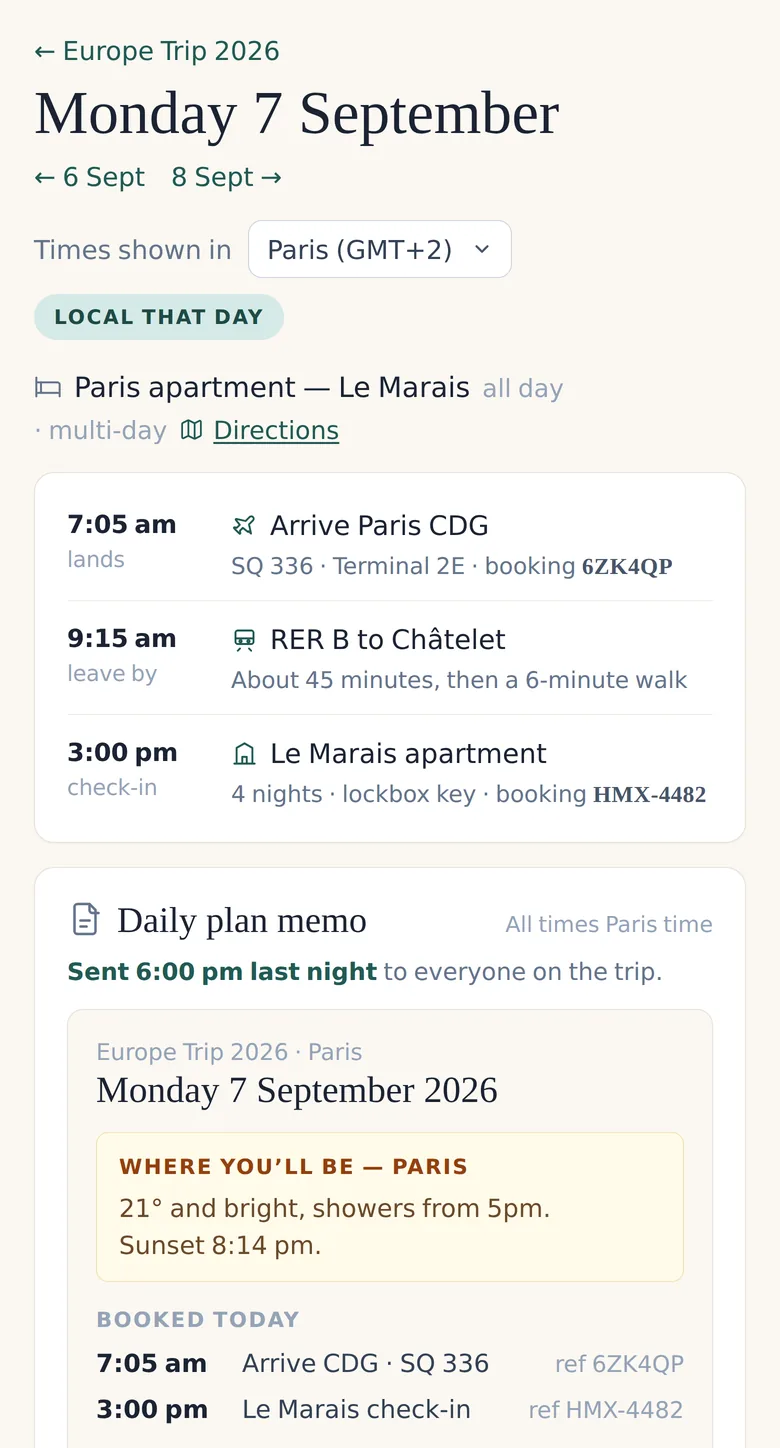
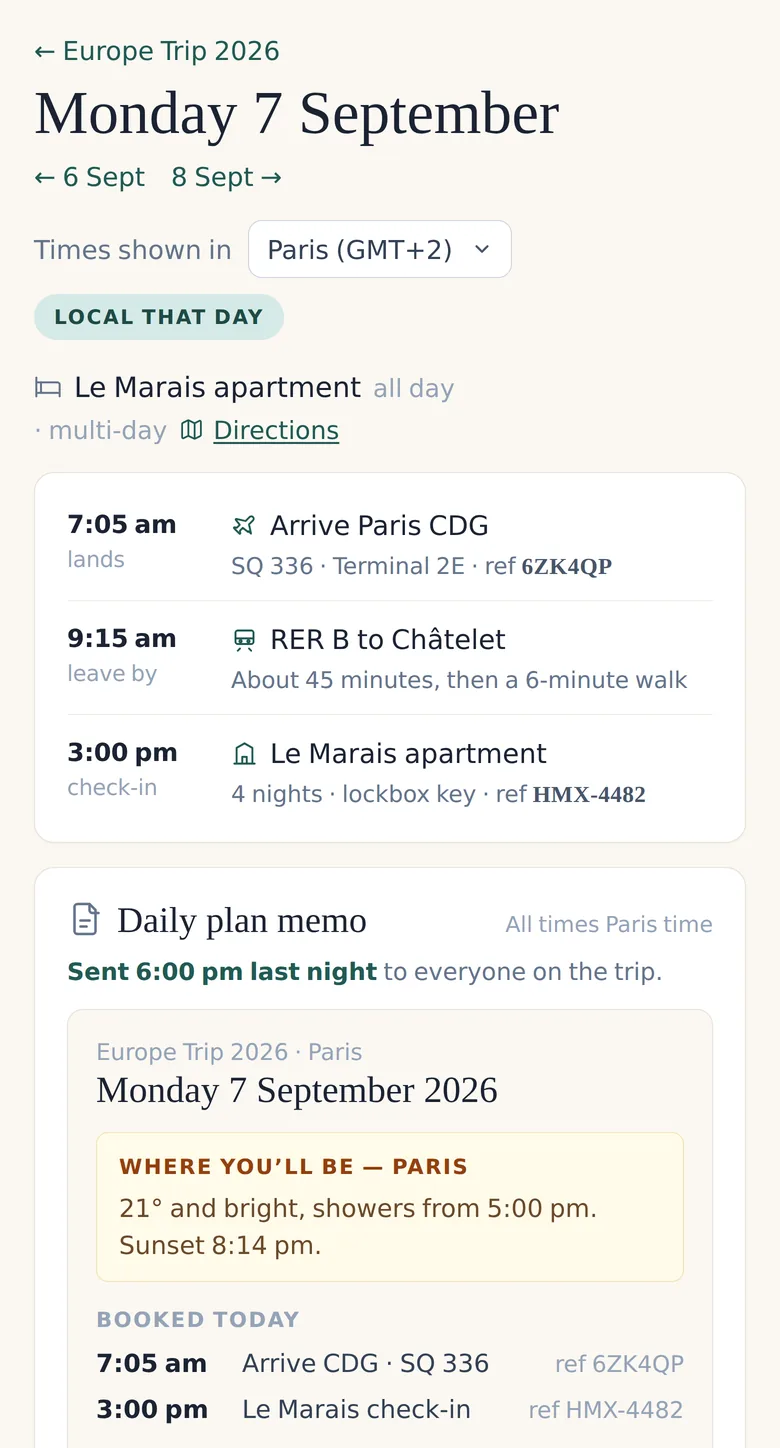
MaiCation day-page shot: one word for a reference, one name for the flat
The schedule rows said "booking 6ZK4QP" where the memo below said "ref
6ZK4QP", and the all-day banner called the flat "Paris apartment — Le
Marais" where the row beneath it said "Le Marais apartment". One word and
one name each, and "ref" is the term the page's own copy uses -- "the
reference the desk will ask for". The forecast said "5pm" among a screen
of "7:05 am" and "8:14 pm"; it now reads 5:00 pm like the rest.

Alt text on the maication page drops an em dash to match the sentence
shape of the trip.webp and budget.webp alt texts beside it.

Claude-Session: https://claude.ai/code/session_01GQRaxbXg3YnWr1K54JGyxZ

diff --git a/maication/index.html b/maication/index.html
@@ -201,7 +201,7 @@
     <h2>On the phone, once you're away</h2>
     <div class="pair">
       <div class="phone">
-        <img src="/maication/assets/memo-phone.webp" width="780" height="1688" alt="The day page for Monday 7 September on a phone: the time zone in use, the day’s bookings with their references, and the daily memo underneath — the forecast, what’s booked and what’s still to pay." loading="lazy">
+        <img src="/maication/assets/memo-phone.webp" width="780" height="1688" alt="The day page for Monday 7 September on a phone: the time zone in use, the day’s bookings with their references, and the daily memo underneath, with the forecast, what’s booked and what’s still to pay." loading="lazy">
       </div>
       <div>
         <h3>The day page</h3>
